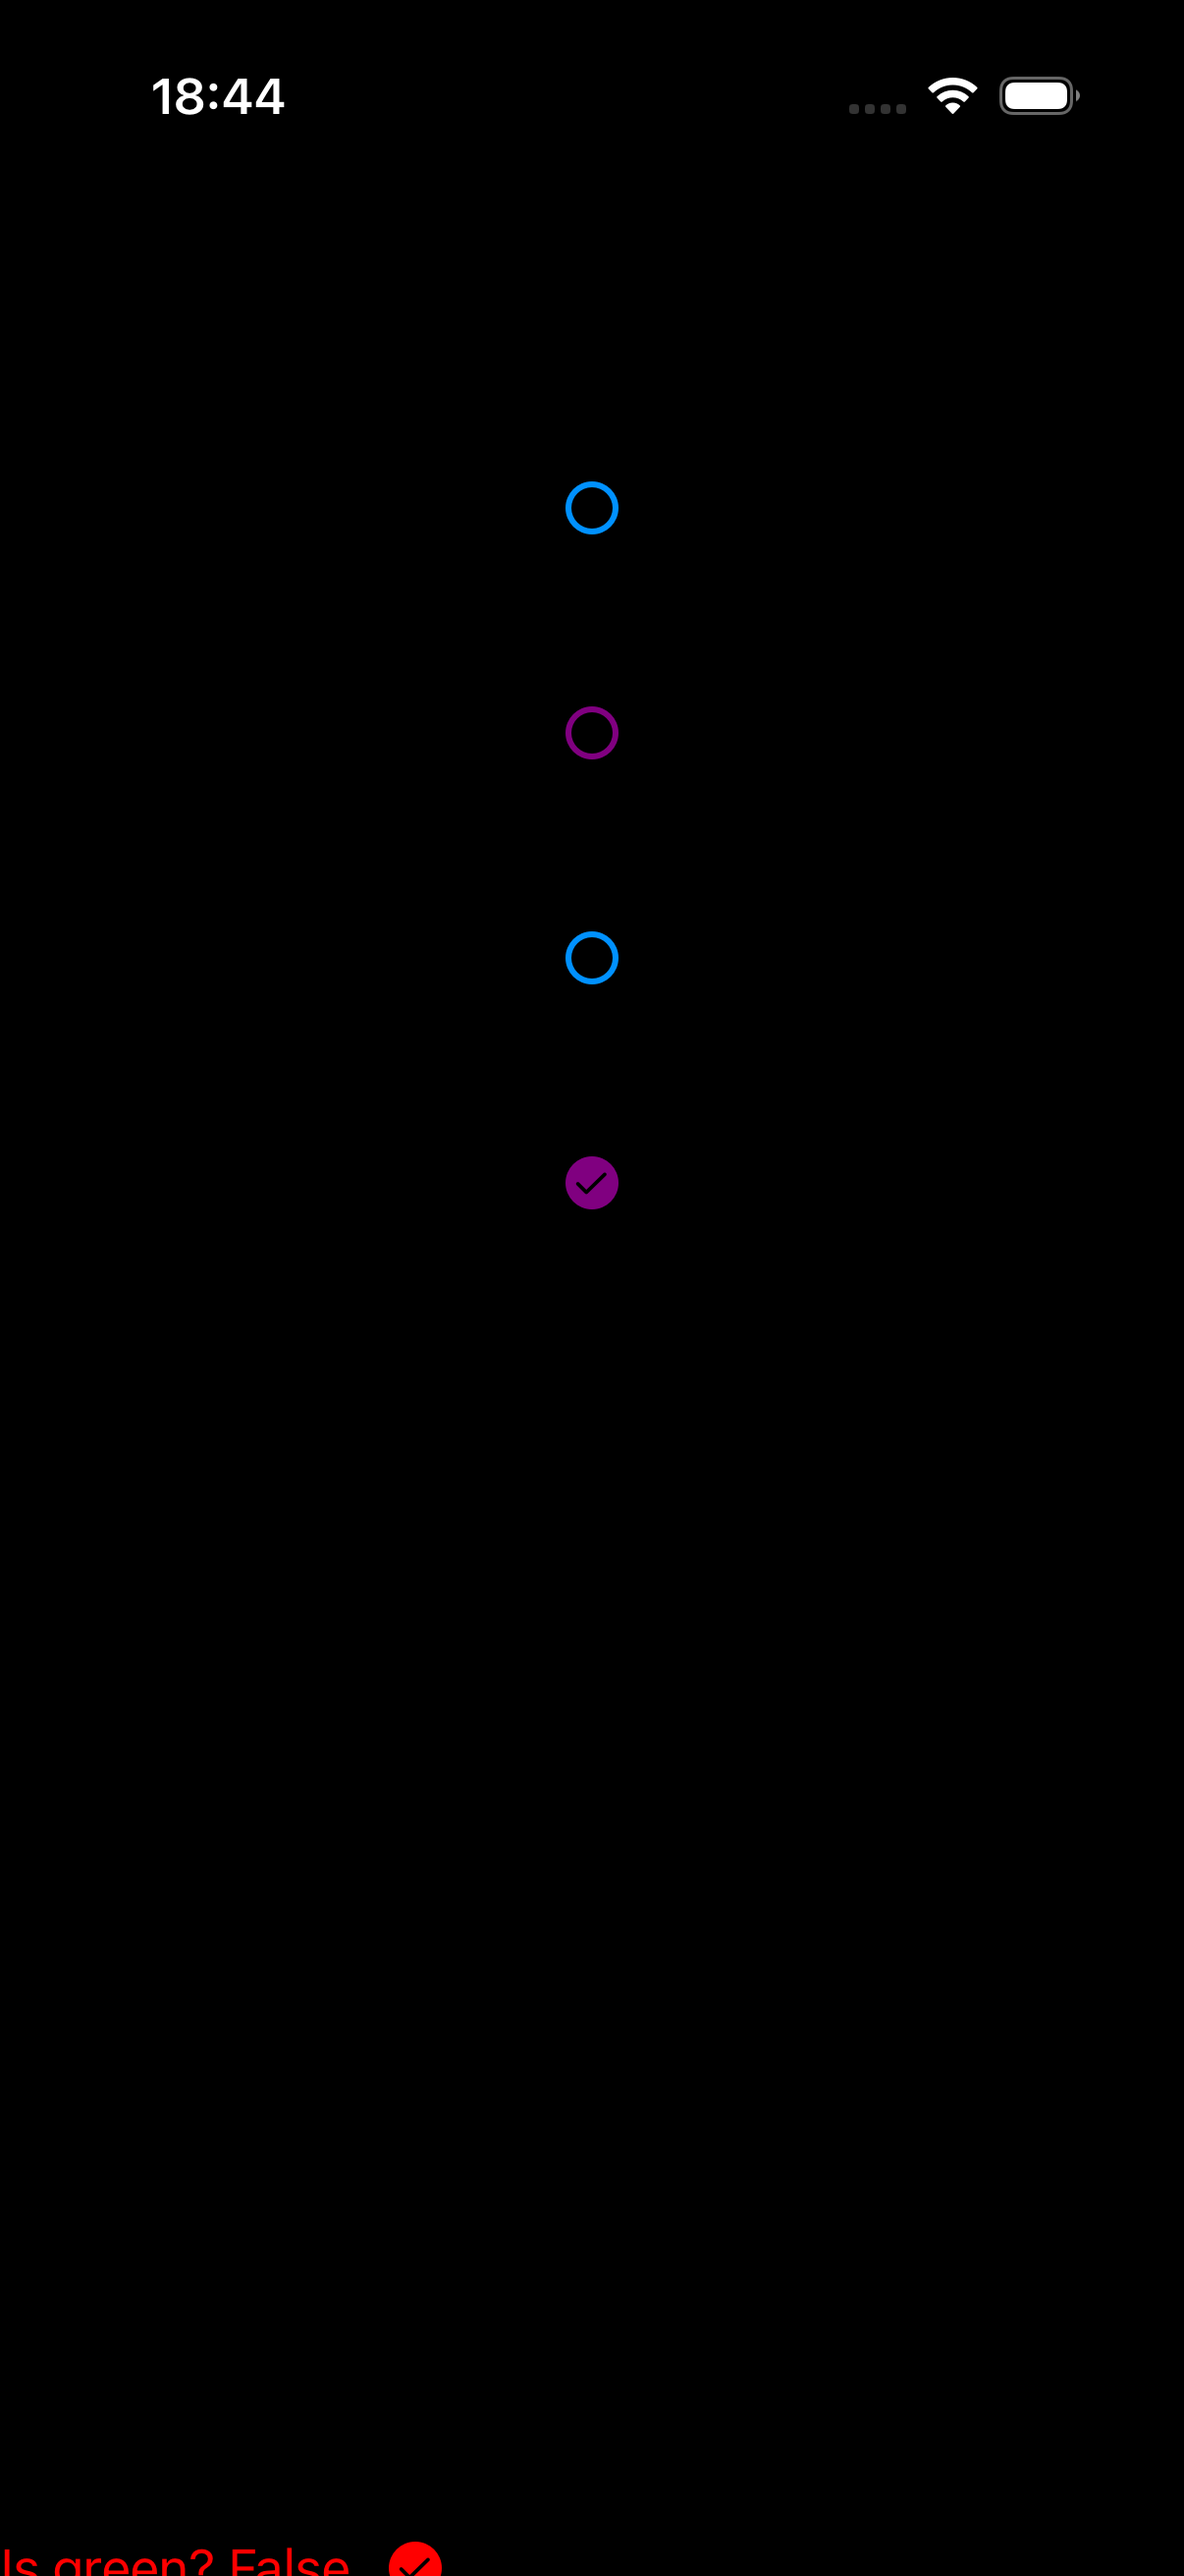
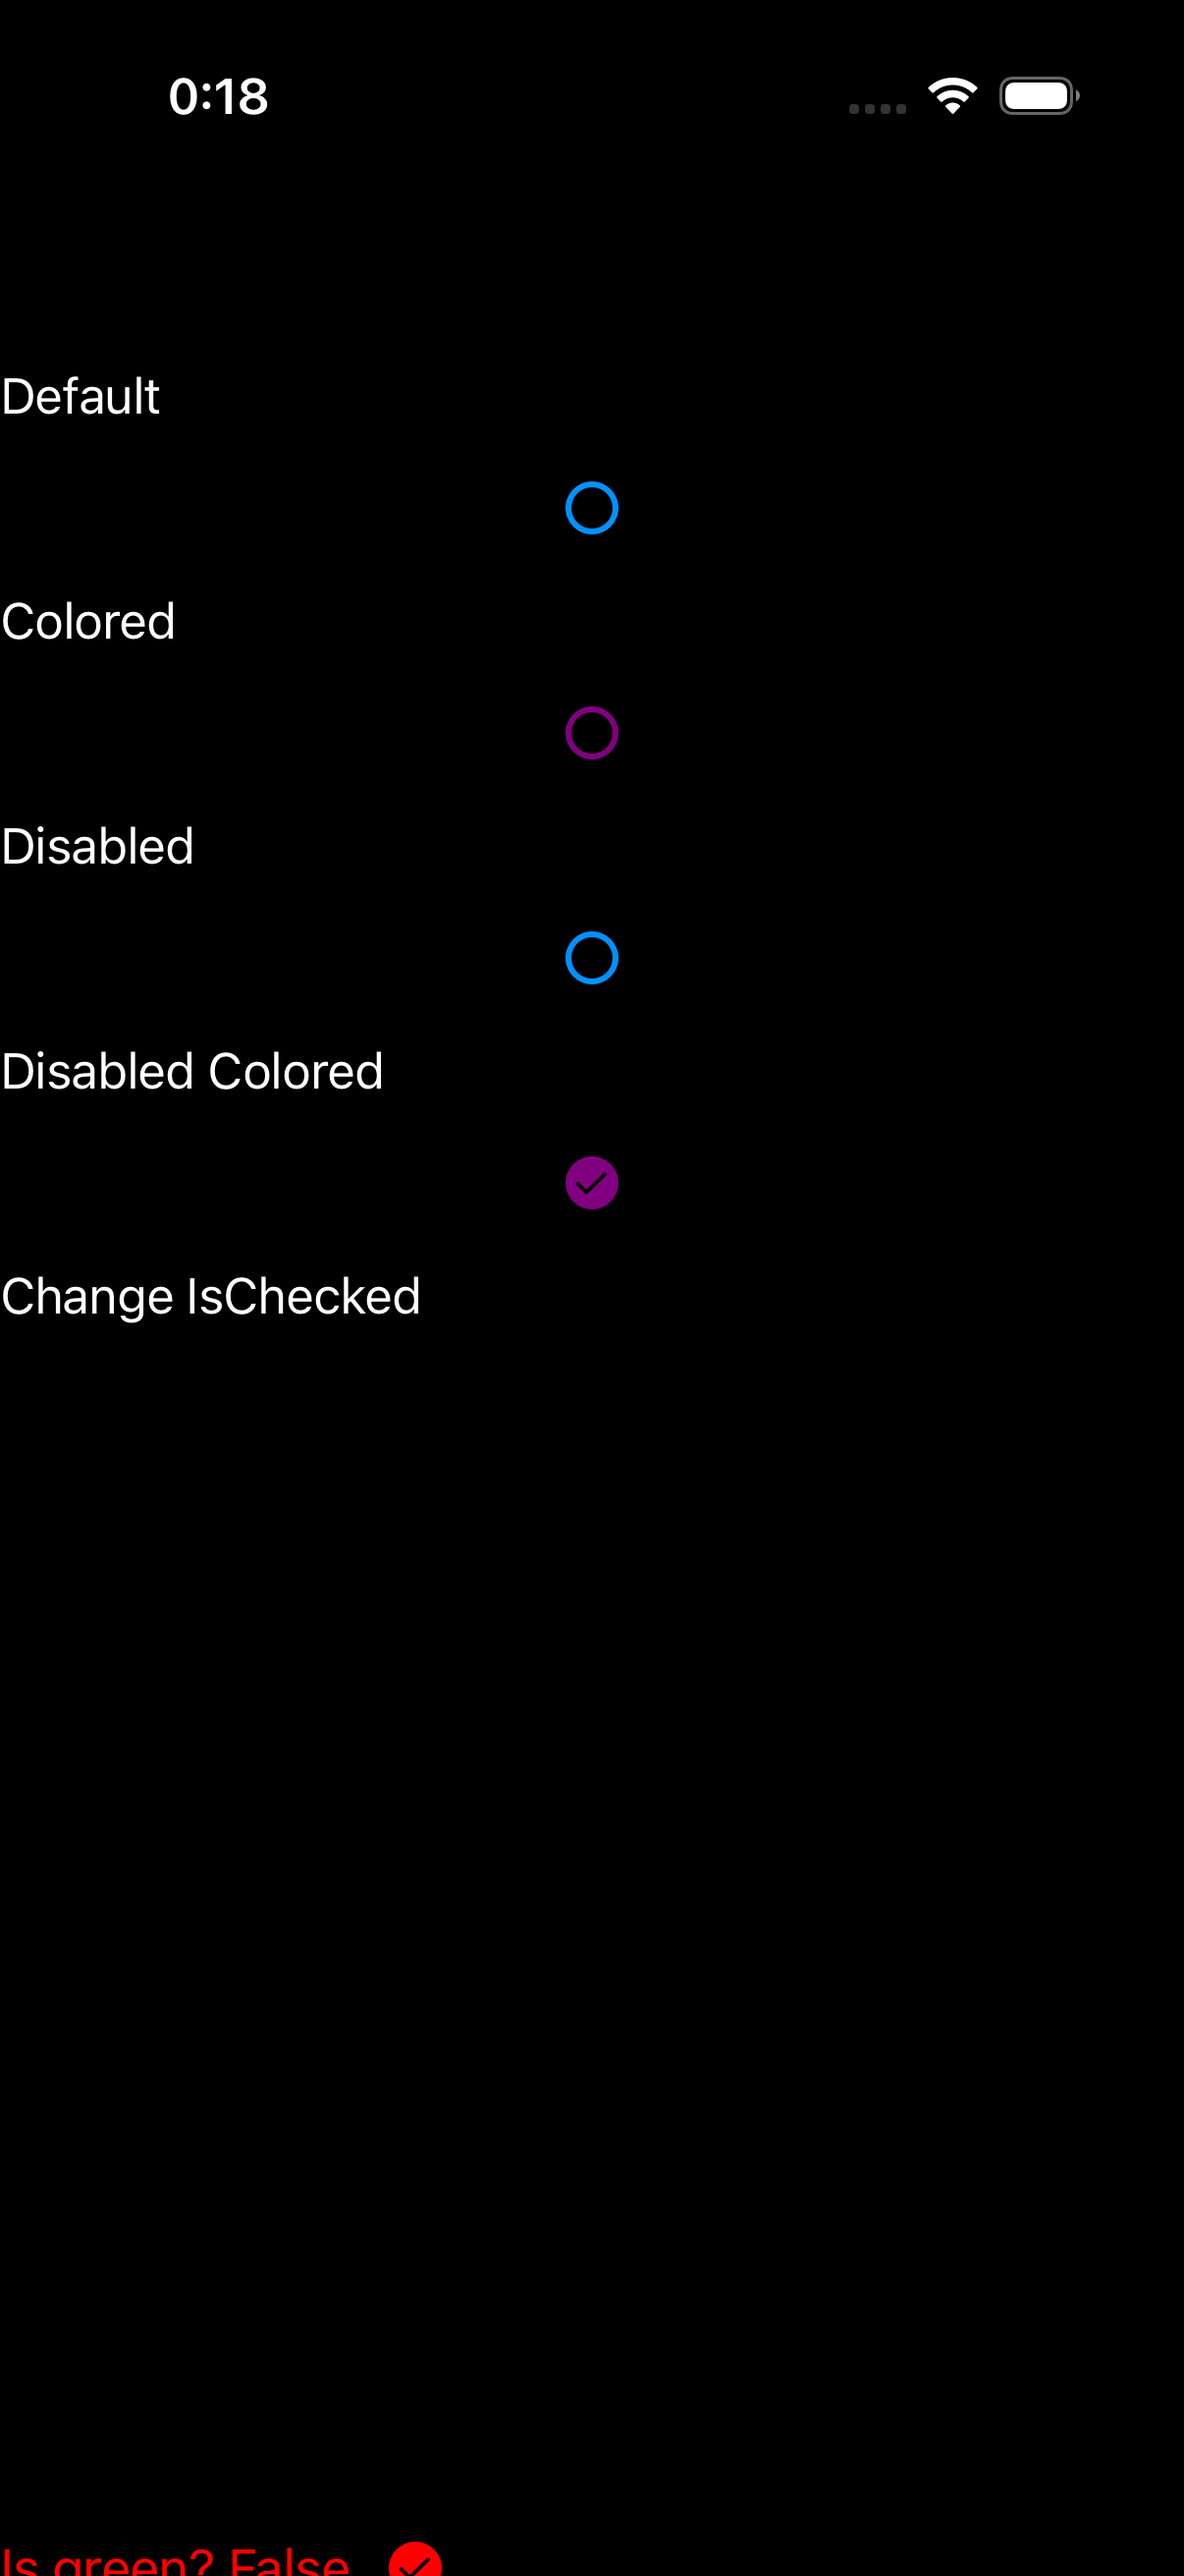
docs(parity): check_box labels render (dark-text cascade) -> minor
example 13/172 (check_box): no code change — the dark-text cascade fixed the
previously-missing section labels (Default/Colored/Disabled/etc.). All checkboxes
now match MAUI both themes: circle shape, blue/magenta outline colors, filled
purple/red checked states, and the label-left/checkbox-right grid layout. Residuals:
C++ row pitch ~1.2x taller than MAUI (the MauiCheckBox measures to its 44pt minimum
vs the tighter label height) clipping the last row, and the C# demo styles labels
bold vs the port's regular weight (demo difference). Tracker: check_box diff->minor (13 minor).

diff --git a/port/cpp/docs/comparison/README.md b/port/cpp/docs/comparison/README.md
@@ -2,7 +2,7 @@
 
 Theme-matched iOS comparison: each page rendered by **real .NET MAUI** vs the **C++ port**, on the same iPhone 17 simulator, compared **light-vs-light** and **dark-vs-dark**. Both stacks render native-default controls + the system font (the C# app's `dotnet new maui` default `Styles.xaml` + OpenSans are stripped; appearance forced via `MAUI_THEME` / `MAUI_APPEARANCE`). Goal: pixel-perfect parity, fixed example-by-example.
 
-**Progress: 0 / 172 🟢 matched** · 12 🟡 minor · 54 🔴 diff · 106 ⬜ pending
+**Progress: 0 / 172 🟢 matched** · 13 🟡 minor · 53 🔴 diff · 106 ⬜ pending
 
 Status legend: 🟢 pixel-match (both themes) · 🟡 minor diff · 🔴 notable diff to fix · ⬜ not yet reviewed. Per-theme verdicts in `parity_status.json`.
 
@@ -24,7 +24,7 @@ Rows are in **fix order** (top → bottom): foundational single controls first (
 | 10 | Slider | 🟡<br>L:minor<br>D:minor | ![](csharp_ios_light/slider.png) | ![](cpp_ios_light/slider.png) | ![](csharp_ios_dark/slider.png) | ![](cpp_ios_dark/slider.png) |
 | 11 | Stepper | 🟡<br>L:minor<br>D:minor | ![](csharp_ios_light/stepper.png) | ![](cpp_ios_light/stepper.png) | ![](csharp_ios_dark/stepper.png) | ![](cpp_ios_dark/stepper.png) |
 | 12 | Switch | 🟡<br>L:minor<br>D:minor | ![](csharp_ios_light/switch.png) | ![](cpp_ios_light/switch.png) | ![](csharp_ios_dark/switch.png) | ![](cpp_ios_dark/switch.png) |
-| 13 | Check Box | 🔴<br>L:diff<br>D:diff | ![](csharp_ios_light/check_box.png) | ![](cpp_ios_light/check_box.png) | ![](csharp_ios_dark/check_box.png) | ![](cpp_ios_dark/check_box.png) |
+| 13 | Check Box | 🟡<br>L:minor<br>D:minor | ![](csharp_ios_light/check_box.png) | ![](cpp_ios_light/check_box.png) | ![](csharp_ios_dark/check_box.png) | ![](cpp_ios_dark/check_box.png) |
 | 14 | Progress Bar | ⬜<br>L:pending<br>D:pending | ![](csharp_ios_light/progress_bar.png) | ![](cpp_ios_light/progress_bar.png) | ![](csharp_ios_dark/progress_bar.png) | ![](cpp_ios_dark/progress_bar.png) |
 | 15 | Activity Indicator | 🔴<br>L:diff<br>D:blank | ![](csharp_ios_light/activity_indicator.png) | ![](cpp_ios_light/activity_indicator.png) | ![](csharp_ios_dark/activity_indicator.png) | ![](cpp_ios_dark/activity_indicator.png) |
 | 16 | Indicator | ⬜<br>L:pending<br>D:pending | ![](csharp_ios_light/indicator.png) | ![](cpp_ios_light/indicator.png) | ![](csharp_ios_dark/indicator.png) | ![](cpp_ios_dark/indicator.png) |
